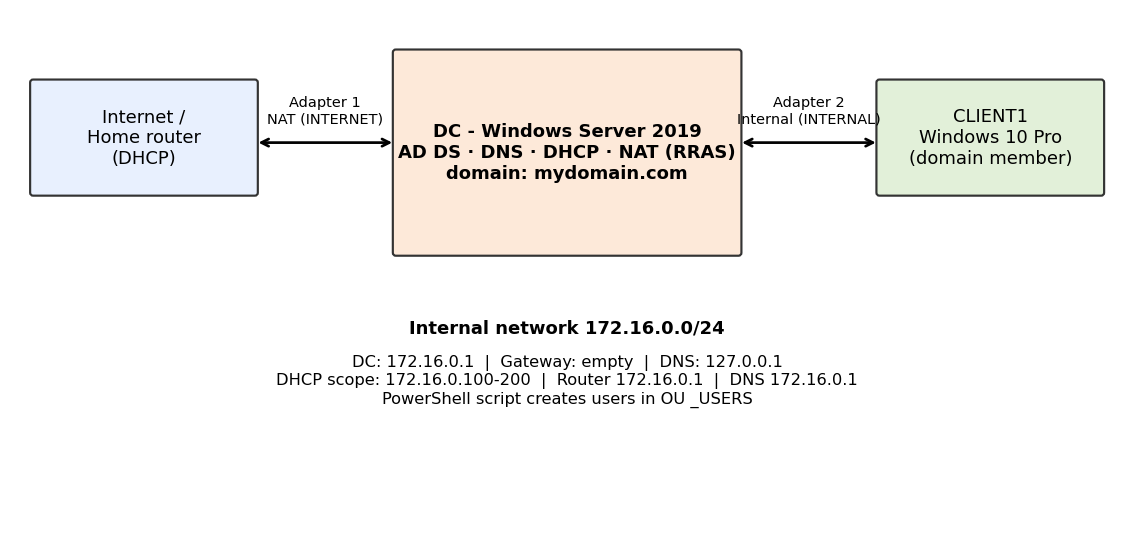
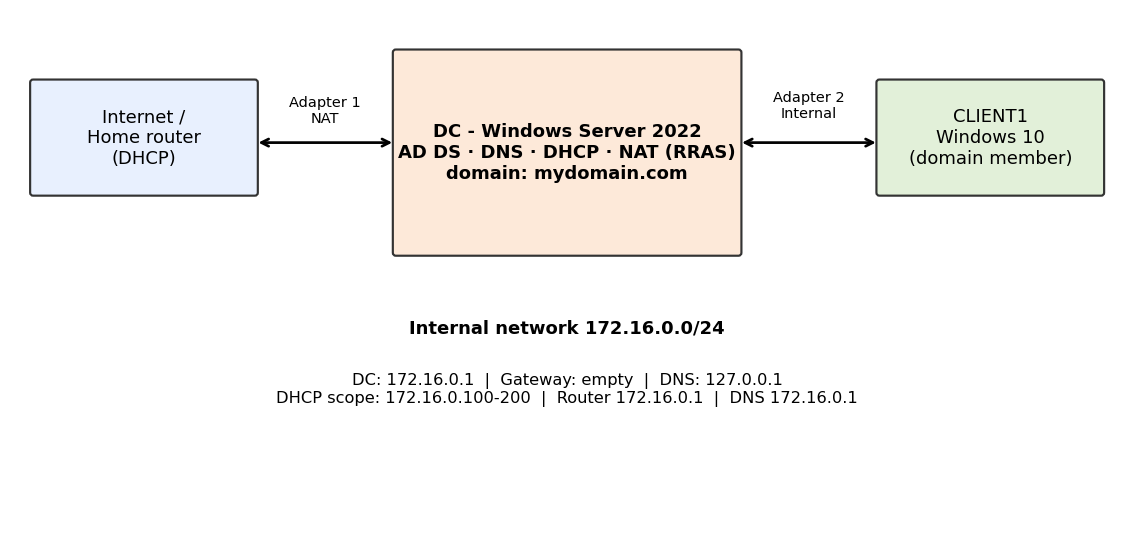
Add files via upload

diff --git a/README.md b/README.md
@@ -1,48 +1,59 @@
 # Active Directory Home Lab (VirtualBox)
 
-A Windows domain lab on VirtualBox: a Windows Server 2019 domain controller providing AD DS, DNS, DHCP and NAT, a Windows 10 client joined to the domain, and a PowerShell script that bulk-creates domain users.
+A Windows domain lab on VirtualBox: a Windows Server 2022 domain controller providing AD DS, DNS, DHCP and NAT, plus a Windows 10 client joined to the domain. A PowerShell script for bulk user creation is included.
 
 ## Skills demonstrated
-Active Directory · DNS · DHCP · NAT/Routing (RRAS) · Windows Server 2019 · Windows 10 · PowerShell scripting · Virtualization (VirtualBox) · Domain join and authentication
+Active Directory · DNS · DHCP · NAT/Routing (RRAS) · Windows Server 2022 · Windows 10 · PowerShell scripting · Virtualization (VirtualBox) · Domain join and authentication
 
 ## Architecture
 ![Network diagram](docs/network-diagram.png)
 
-| | DC (Server 2019) | CLIENT1 (Windows 10 Pro) |
+| | DC (Server 2022) | CLIENT1 (Windows 10) |
 |---|---|---|
-| Adapter 1 | NAT (named INTERNET), DHCP from home router | none |
-| Adapter 2 | Internal Network (named INTERNAL), static 172.16.0.1/24 | Internal Network, DHCP from DC |
+| Adapter 1 | NAT (named `internet`), DHCP from home router | none |
+| Adapter 2 | Internal Network `INTERNAL` (named `internal`), static 172.16.0.1/24 | Internal Network, DHCP from DC |
 | Roles | AD DS, DNS, DHCP, Routing (NAT) | Domain member |
 
 **DHCP scope:** 172.16.0.100 – 172.16.0.200 · Mask 255.255.255.0 · Gateway 172.16.0.1 · DNS 172.16.0.1
-**Domain:** `mydomain.com` (NetBIOS: MYDOMAIN)
+**Domain:** `mydomain.com`
 
 ## What I built
-1. Created the DC VM with two network adapters and installed Windows Server 2019.
-2. Renamed the adapters INTERNET and INTERNAL and set a static IP on INTERNAL (172.16.0.1, mask 255.255.255.0, no gateway, DNS 127.0.0.1).
-3. Installed AD DS and promoted the server to a domain controller with a new forest.
-4. Created a personal domain admin account and used it for administration.
+1. Created the DC VM in VirtualBox with two network adapters (NAT and Internal Network).
+2. Renamed the adapters and set a static IP on the internal adapter (172.16.0.1, mask 255.255.255.0, no gateway).
+3. Installed AD DS and promoted the server to a domain controller with a new forest, `mydomain.com`.
+4. Created organizational units (`ADMINS` and a users OU) and domain user accounts.
 5. Enabled NAT with Routing and Remote Access so the internal network reaches the internet through the DC.
-6. Installed DHCP and created a scope for the internal network.
-7. Ran a PowerShell script that creates an OU and bulk-creates users from a text file.
-8. Built a Windows 10 Pro client, confirmed DHCP and internet access, and joined it to the domain.
-9. Logged in on the client as a script-created domain user.
+6. Installed DHCP and created the scope 172.16.0.100–200.
+7. Built a Windows 10 client, confirmed it received its address from the DC, and joined it to the domain.
+8. Logged in on the client as a domain user.
 
 ## Screenshots
-Add your screenshots to the `screenshots/` folder, then uncomment these lines:
 
-<!--
-![DC IP configuration](screenshots/02-dc-ip-config.png)
-![NAT enabled](screenshots/04-nat-enabled.png)
-![DHCP scope](screenshots/05-dhcp-scope.png)
-![Users created in _USERS](screenshots/07-aduc-users-created.png)
-![Client IP configuration](screenshots/08-client-ipconfig.png)
-![Client joined to domain](screenshots/09-client-joined-domain.png)
-![Domain user login](screenshots/10-domain-user-login.png)
--->
+### VirtualBox network adapters on the DC
+![Adapter 1 NAT](screenshots/01-dc-adapter1-nat.png)
+![Adapter 2 Internal Network](screenshots/02-dc-adapter2-internal.png)
+
+### DC IP configuration
+Static 172.16.0.1 on the internal adapter, no gateway, DHCP address on the internet adapter.
+![DC ipconfig](screenshots/03-dc-ip-config.png)
+
+### Active Directory
+![Users and Computers](screenshots/04-ad-users-and-computers.png)
+![ADMINS OU](screenshots/07-admins-ou.png)
+
+### NAT and DHCP
+![Routing and Remote Access](screenshots/05-nat-routing-remote-access.png)
+![DHCP scope](screenshots/06-dhcp-scope.png)
+
+### Client
+CLIENT1 received 172.16.0.100 from the DC, with gateway and DNS 172.16.0.1.
+![Client ipconfig](screenshots/08-client-ipconfig.png)
+![Client has internet through NAT](screenshots/10-client-internet-ping.png)
+![Client joined to mydomain.com](screenshots/09-client-joined-domain.png)
+![Logged in as a domain user](screenshots/11-domain-user-login-whoami.png)
 
 ## PowerShell script
-[`scripts/create-users.ps1`](scripts/create-users.ps1) reads [`scripts/names.txt`](scripts/names.txt), creates the `_USERS` OU, and creates one account per name. The username is the first initial plus the last name (for example, "Aisha Rahman" becomes `arahman`). Blank lines are skipped and middle names are handled by using the last word as the surname.
+[`scripts/create-users.ps1`](scripts/create-users.ps1) reads [`scripts/names.txt`](scripts/names.txt), creates an OU, and creates one account per name (first initial plus last name, for example "Aisha Rahman" becomes `arahman`). Blank lines are skipped.
 
 Run it on the DC in PowerShell ISE as administrator:
 
@@ -59,25 +70,23 @@ Set-ExecutionPolicy RemoteSigned
 ```
 
 ## Verification
-- [x] DC has INTERNET and INTERNAL adapters and can ping google.com
-- [x] Forest and domain controller created
-- [x] NAT enabled on INTERNET
-- [x] DHCP scope active and authorized
-- [x] Users present in the `_USERS` OU
+- [x] DC has two adapters; internal adapter is 172.16.0.1/24
+- [x] Forest `mydomain.com` created
+- [x] NAT configured in Routing and Remote Access
+- [x] DHCP scope 172.16.0.100–200 created
 - [x] Client received a 172.16.0.x lease with gateway and DNS 172.16.0.1
-- [x] Client can ping google.com
-- [x] Client joined the domain and appears in the Computers container
-- [x] Logged in on the client as a generated user
+- [x] Client can ping google.com (0% loss) through the DC
+- [x] Client is a member of mydomain.com (`CLIENT1.mydomain.com`)
+- [x] Logged in on the client as a domain user (`whoami` returns `mydomain\k_mani`)
 
 ## Problems I hit and how I fixed them
-- _Add 2–3 of your own real problems here, for example: client got a 169.254.x.x address because the Internal Network names did not match._
-- _Script blocked by the default execution policy, fixed with Set-ExecutionPolicy._
+- _Add 2–3 of your own real problems here._
 
 ## What I learned
-- _Write 2–4 sentences in your own words: how DHCP, DNS and AD depend on each other, how NAT gives the client internet, and why automating user creation matters._
+- _Write 2–4 sentences in your own words: how DHCP, DNS and AD depend on each other, and how NAT gives the client internet._
 
 ## Credit
-The lab design follows Josh Madakor's "Basic Home Lab: Active Directory" video. The README, documentation and script modifications are my own.
+The lab design follows Josh Madakor's "Basic Home Lab: Active Directory" video. The README, documentation and screenshots are my own.
 
 ## Lab only
 Passwords in this repo are lab-only values. Do not reuse them anywhere real.
